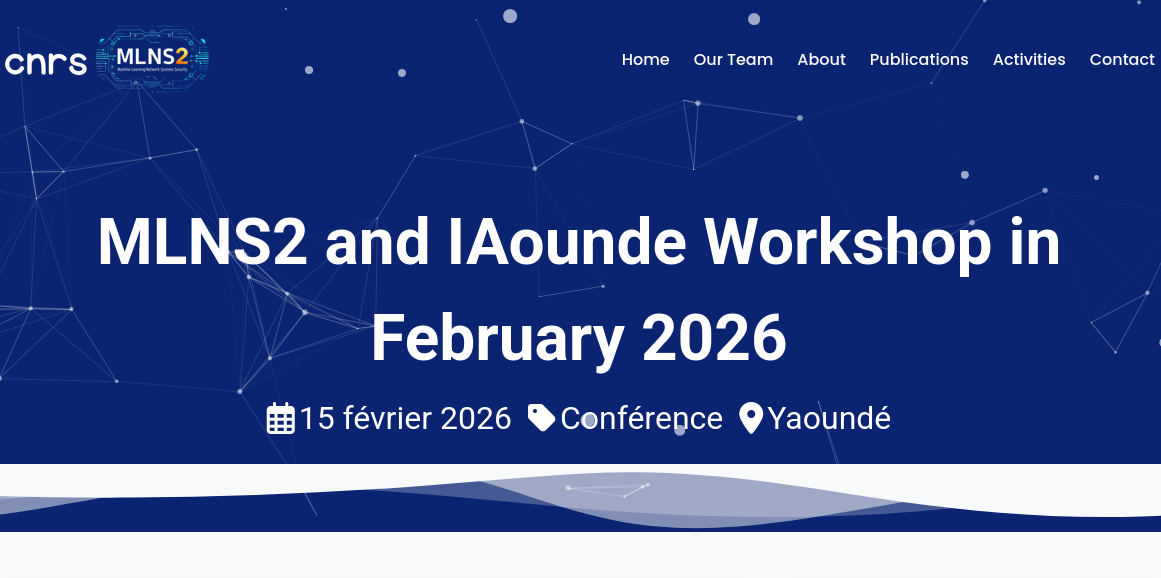
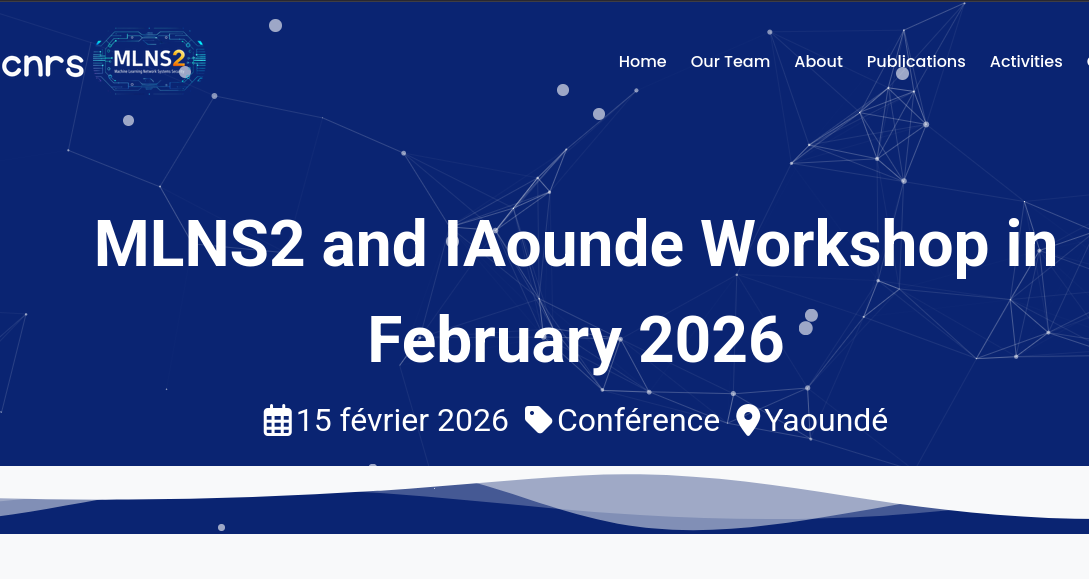
update

diff --git a/content/events/grenoble/index.md b/content/events/grenoble/index.md
@@ -59,6 +59,13 @@ slides: ""
 projects:
   - example
 ---
+
+Data centers are today at the heart of all computing, from providing the computing power that supports machine learning, databases, video streaming, etc., down to providing tiny sensors with extra computing power and storage.  By centralizing computing, data centers have the potential to deliver massive computing resources while adapting the resource consumption efficiently to changing needs.  Nevertheless, data centers have not fully realized their potential of optimizing large-scale computing usage. Instead, studies have consistently shown that, even though new data centers continue to be built, existing data centers are massively underused, typically reaching a usage ratio of only 50%.
+
+The essential problem of managing a data center is to allocate hardware resources, in an environment in which application requirements are not known a priori and are constantly changing, and where at the same time hardware capabilities are regularly evolving.  The Defi OS will attack the problem of data center underusage at the operating system level and hypervisor level, as these are the software components that interact directly with the hardware.  The Defi brings together researchers from the Whisper, WIDE, Erods (UGA), and Benagil teams and will investigate how virtual machine migration, heterogeneous architectures, rack scale computing, and custom resource management policies can be harnessed to raise the data center usage ratio toward 90%.
+
+> [!NOTE]
+> Text adapted from the [Défi OS project page](https://project.inria.fr/defios/).
 <!-- 
 > [!NOTE]
 > Click on the **Slides** button above to download the built-in slides.
@@ -70,8 +77,3 @@ Slides of the Talk Presented at INRIA : -->
 - **Embed** your slides (e.g. Google Slides) or presentation video on this page using [shortcodes](https://docs.hugoblox.com/reference/markdown/).
 
 Further event details, including [page elements](https://docs.hugoblox.com/reference/markdown/) such as image galleries, can be added to the body of this page. -->
-
-
-
-
-

diff --git a/content/events/Rennes/index.md b/content/events/Rennes/index.md
@@ -59,9 +59,12 @@ slides: ""
 projects:
   - example
 ---
+Data centers are today at the heart of all computing, from providing the computing power that supports machine learning, databases, video streaming, etc., down to providing tiny sensors with extra computing power and storage.  By centralizing computing, data centers have the potential to deliver massive computing resources while adapting the resource consumption efficiently to changing needs.  Nevertheless, data centers have not fully realized their potential of optimizing large-scale computing usage. Instead, studies have consistently shown that, even though new data centers continue to be built, existing data centers are massively underused, typically reaching a usage ratio of only 50%.
+
+The essential problem of managing a data center is to allocate hardware resources, in an environment in which application requirements are not known a priori and are constantly changing, and where at the same time hardware capabilities are regularly evolving.  The Defi OS will attack the problem of data center underusage at the operating system level and hypervisor level, as these are the software components that interact directly with the hardware.  The Defi brings together researchers from the Whisper, WIDE, Erods (UGA), and Benagil teams and will investigate how virtual machine migration, heterogeneous architectures, rack scale computing, and custom resource management policies can be harnessed to raise the data center usage ratio toward 90%.
 
 > [!NOTE]
-> Click on the **Slides** button above to download the built-in slides.
+> Text adapted from the [Défi OS project page](https://project.inria.fr/defios/).
 
 Slides of the Talk Presented at INRIA :
 
@@ -186,7 +189,3 @@ Further event details, including [page elements](https://docs.hugoblox.com/refer
     button.textContent = isFullscreen ? 'Exit fullscreen' : 'Fullscreen';
   }
 </script>
-
-
-
-

diff --git a/content/events/MLNS2/index.md b/content/events/MLNS2/index.md
@@ -1,7 +1,7 @@
 ---
 title: "MLNS2 : Machine Learning Network Systems Security"
 
-event: MLNS2
+event: Workshop MLNS2
 event_url: https://mlns2.org/
 
 # location: Campus Pierre and Marie Curie, Sorbonne University
@@ -18,9 +18,9 @@ abstract: 'IO_URING based approach for double paging problem'
 
 # Talk start and end times.
 #   End time can optionally be hidden by prefixing the line with `#`.
-date: '2026-02-16T09:00:00Z'
-# date_end: '2024-11-25T17:00:00Z'
-all_day: true
+date: '2026-02-15T09:00:00Z'
+date_end: '2026-02-19T16:00:00Z'
+# all_day: true
 
 # Schedule page publish date (NOT talk date).
 publishDate: '2026-02-16T00:00:00Z'
@@ -61,6 +61,9 @@ projects:
   - example
 ---
 
+Machine Learning, Network, System and Security ([MLNS²](https://mlns2.org/))
+
+The [MLNS²](https://mlns2.org/) project aims to design and investigate efficient, robust, and scalable approaches to fight against malware proliferation. Addressing such challenges requires multidisciplinary knowledge from Machine Learning, Networking, System security, and beyond. 
 
 Slides from the MLNS2 Presentation:
 

diff --git a/content/blog/get-started/index.md b/content/blog/get-started/index.md
@@ -1,7 +1,7 @@
 ---
 title: 🎉 Easily create your own simple yet highly customizable blog
 summary: Take full control of your personal brand and privacy by migrating away from the big tech platforms!
-date: 2023-10-27
+date: 2028-10-27
 
 # Featured image
 # Place an image named `featured.jpg/png` in this page's folder and customize its options here.

diff --git a/content/blog/data-visualization/index.md b/content/blog/data-visualization/index.md
@@ -1,7 +1,7 @@
 ---
 title: 📈 Communicate your results effectively with the best data visualizations
 summary: Use popular tools such as HuggingFace, Plotly, Mermaid, and data frames.
-date: 2023-10-25
+date: 2028-10-25
 authors:
   - me
 tags:

diff --git a/content/blog/notebook-onboarding/index.md b/content/blog/notebook-onboarding/index.md
@@ -1,7 +1,7 @@
 ---
 title: ⚡ Turn Jupyter Notebooks into Blog Posts
 summary: Publish your data science and research directly from Jupyter Notebooks. No screenshots required.
-date: 2024-07-15
+date: 2028-07-15
 authors:
   - me
 tags:

diff --git a/content/blog/second-brain/index.md b/content/blog/second-brain/index.md
@@ -1,7 +1,7 @@
 ---
 title: 🧠 Sharpen your thinking with a second brain
 summary: Create a personal knowledge base and share your knowledge with your peers.
-date: 2023-10-26
+date: 2028-10-26
 authors:
   - me
 tags:

diff --git a/content/blog/project-management/index.md b/content/blog/project-management/index.md
@@ -1,7 +1,7 @@
 ---
 title: ✅ Manage your projects
 summary: Easily manage your projects - create ideation mind maps, Gantt charts, todo lists, and more!
-date: 2023-10-23
+date: 2028-10-23
 authors:
   - me
 tags:

diff --git a/content/blog/teach-courses/index.md b/content/blog/teach-courses/index.md
@@ -1,7 +1,7 @@
 ---
 title: 👩🏼🏫 Teach academic courses
 summary: Embed videos, podcasts, code, LaTeX math, and even test students!
-date: 2023-10-24
+date: 2028-10-24
 math: true
 authors:
   - me
